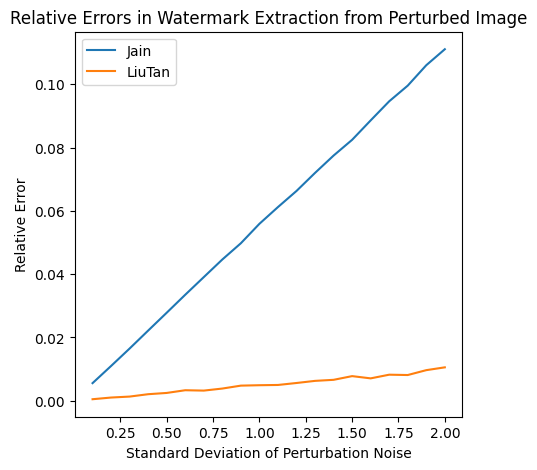
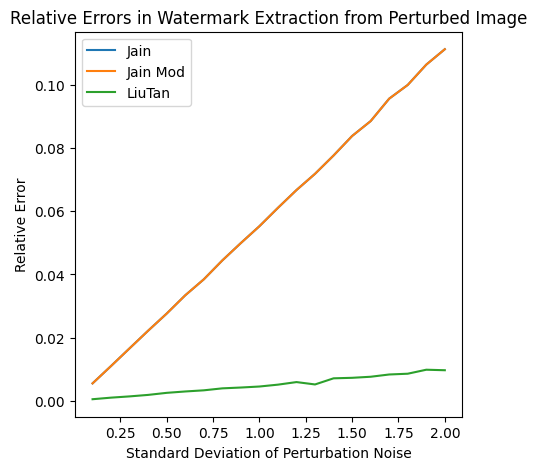
Add Jain mod to some experiments

diff --git a/david/image_watermark_experiments.py b/david/image_watermark_experiments.py
@@ -1,5 +1,7 @@
 import numpy as np
 import numpy.linalg as la
+import scipy as sp
+import scipy.sparse
 import matplotlib.pyplot as plt
 
 import svd_tools as svdt
@@ -175,6 +177,27 @@ def test_watermark_jain(scale=1):
     
     plt.show()
 
+def test_watermark_jain_perturb(scale=0.01):
+    img = np.asarray(Image.open('res/images/raccoon.jpg'))
+    watermark = np.asarray(Image.open('res/images/redpanda.jpg'))
+
+    img_watermarked, watermark_vh = embed_watermark_jain(img, watermark, scale)
+    perturbation = np.random.normal(scale=1, size=img_watermarked.shape)
+    watermark_extracted = extract_watermark_jain(img_watermarked + perturbation, img, watermark_vh, scale)
+
+    img_watermarked = np.clip(np.floor(img_watermarked + perturbation), 0, 255).astype(np.uint8)
+    watermark_extracted = np.clip(watermark_extracted, 0, 255).astype(np.uint8)
+
+    fig, axs = plt.subplots(2, 2)
+
+    axs[0, 0].imshow(img); axs[0, 0].axis('off'); axs[0,0].set_title('Original')
+    axs[0, 1].imshow(watermark); axs[0, 1].axis('off'); axs[0,1].set_title('Watermark')
+    axs[1, 0].imshow(img_watermarked.astype(np.uint8)); axs[1, 0].axis('off'); axs[1,0].set_title('Watermarked Image')
+    axs[1, 1].imshow(watermark_extracted.astype(np.uint8)); axs[1, 1].axis('off'); axs[1,1].set_title('Extracted Watermark')
+    
+    plt.show()
+
+
 def test_wrong_watermark_jain(scale=0.01):
     raccoon = np.asarray(Image.open('res/images/raccoon.jpg'))
     redpanda = np.asarray(Image.open('res/images/redpanda.jpg'))
@@ -200,6 +223,33 @@ def test_wrong_watermark_jain(scale=0.01):
     fig.tight_layout()
     
     plt.show()
+
+def test_wrong_watermark_jain_mod(scale=0.01):
+    raccoon = np.asarray(Image.open('res/images/raccoon.jpg'))
+    redpanda = np.asarray(Image.open('res/images/redpanda.jpg'))
+    fox = np.asarray(Image.open('res/images/fox.jpg'))
+
+    raccoon_wm_redpanda, redpanda_vh = embed_watermark_jain_mod(raccoon, redpanda, scale)
+    raccoon_wm_fox, fox_vh = embed_watermark_jain_mod(raccoon, fox, scale)
+    fox_extracted_wrong = extract_watermark_jain_mod(raccoon_wm_redpanda, raccoon, fox_vh, scale)
+
+    raccoon_wm_redpanda = np.clip(np.floor(raccoon_wm_redpanda), 0, 255).astype(np.uint8)
+    fox_extracted_wrong = np.clip(fox_extracted_wrong, 0, 255).astype(np.uint8)
+
+    fig, axs = plt.subplots(2, 3)
+
+    axs[0, 0].imshow(raccoon); axs[0, 0].axis('off'); axs[0,0].set_title('Original')
+    axs[0, 1].imshow(redpanda); axs[0, 1].axis('off'); axs[0,1].set_title('Watermark')
+    axs[0, 2].imshow(fox); axs[0, 2].axis('off'); axs[0,2].set_title('Wrong Watermark')
+    axs[1, 0].imshow(raccoon_wm_redpanda); axs[1, 0].axis('off'); axs[1,0].set_title('Image Watermarked with Red Panda')
+    axs[1,1].axis('off')
+    axs[1, 2].imshow(fox_extracted_wrong); axs[1, 2].axis('off'); axs[1,2].set_title('Fox Watermark Extracted')
+
+    fig.set_size_inches(10, 15)
+    fig.tight_layout()
+    
+    plt.show()
+
 
 def test_wrong_watermark_liutan(scale=0.01):
     raccoon = np.asarray(Image.open('res/images/raccoon.jpg'))
@@ -281,8 +331,6 @@ def test_watermark_jain(scale=1):
     watermark_extracted = extract_watermark_jain(mat_watermarked, mat, watermark_vh,
             scale=scale)
     watermark_extracted = watermark_extracted[:watermark_size[0], :watermark_size[1]]
-    print(la.norm(mat_watermarked - mat))
-    print(la.norm(watermark - watermark_extracted))
 
 def test_watermark_jain_round(scale=1):
     watermark_size = (7,7)
@@ -313,6 +361,7 @@ def plot_watermark_perturb_errors_sparse(scale=1, min_mult=1, max_mult=20, num_p
         size=(128,128)):
     mults = np.linspace(min_mult, max_mult, num_points)
     relative_errors_jain = np.empty_like(mults)
+    relative_errors_jain_mod = np.empty_like(mults)
     relative_errors_liutan = np.empty_like(mults)
 
     #mat = np.asarray(Image.open('res/images/raccoon.jpg').convert('L')).astype(np.float64)
@@ -322,6 +371,7 @@ def plot_watermark_perturb_errors_sparse(scale=1, min_mult=1, max_mult=20, num_p
 
     # Embed watermark
     mat_watermarked_jain, vh_jain = embed_watermark_jain(mat, watermark, scale)
+    mat_watermarked_jain_mod, vh_jain_mod = embed_watermark_jain_mod(mat, watermark, scale)
     mat_watermarked_liutan, u_liutan, s_liutan, vh_liutan = embed_watermark(mat, watermark, scale)
 
     # Perturb watermarked matrix
@@ -334,12 +384,18 @@ def plot_watermark_perturb_errors_sparse(scale=1, min_mult=1, max_mult=20, num_p
                 mat, vh_jain, scale)
         relative_errors_jain[i] = la.norm(watermark - watermark_extracted_jain) / la.norm(watermark)
 
+        watermark_extracted_jain_mod = extract_watermark_jain_mod(mat_watermarked_jain_mod + perturbation, 
+                mat, vh_jain_mod, scale)
+        relative_errors_jain_mod[i] = la.norm(watermark - watermark_extracted_jain_mod) / la.norm(watermark)
+
         watermark_extracted_liutan = extract_watermark(mat_watermarked_liutan + perturbation, 
                 u_liutan, s_liutan, vh_liutan, scale)
         relative_errors_liutan[i] = la.norm(watermark - watermark_extracted_liutan) / la.norm(watermark)
 
+
     fig, ax = plt.subplots()
-    ax.plot(mults, relative_errors_jain, label='Jain')
+    #ax.plot(mults, relative_errors_jain, label='Jain')
+    ax.plot(mults, relative_errors_jain_mod, label='Jain Mod')
     ax.plot(mults, relative_errors_liutan, label='LiuTan')
     ax.legend()
     ax.set_title('Relative Errors in Watermark Extraction from Perturbed Image')
@@ -355,6 +411,7 @@ def plot_watermark_perturb_errors_random(scale=1, min_stddev=.1, max_stddev=2, n
         size=(128,128)):
     std_devs = np.linspace(min_stddev, max_stddev, num_points)
     relative_errors_jain = np.empty_like(std_devs)
+    relative_errors_jain_mod = np.empty_like(std_devs)
     relative_errors_liutan = np.empty_like(std_devs)
 
     #mat = np.asarray(Image.open('res/images/raccoon.jpg').convert('L')).astype(np.float64)
@@ -364,6 +421,7 @@ def plot_watermark_perturb_errors_random(scale=1, min_stddev=.1, max_stddev=2, n
 
     # Embed watermark
     mat_watermarked_jain, vh_jain = embed_watermark_jain(mat, watermark, scale)
+    mat_watermarked_jain_mod, vh_jain_mod = embed_watermark_jain_mod(mat, watermark, scale)
     mat_watermarked_liutan, u_liutan, s_liutan, vh_liutan = embed_watermark(mat, watermark, scale)
 
     # Perturb watermarked matrix
@@ -374,12 +432,17 @@ def plot_watermark_perturb_errors_random(scale=1, min_stddev=.1, max_stddev=2, n
                 mat, vh_jain, scale)
         relative_errors_jain[i] = la.norm(watermark - watermark_extracted_jain) / la.norm(watermark)
 
+        watermark_extracted_jain_mod = extract_watermark_jain_mod(mat_watermarked_jain_mod + perturbation, 
+                mat, vh_jain_mod, scale)
+        relative_errors_jain_mod[i] = la.norm(watermark - watermark_extracted_jain_mod) / la.norm(watermark)
+
         watermark_extracted_liutan = extract_watermark(mat_watermarked_liutan + perturbation, 
                 u_liutan, s_liutan, vh_liutan, scale)
         relative_errors_liutan[i] = la.norm(watermark - watermark_extracted_liutan) / la.norm(watermark)
 
     fig, ax = plt.subplots()
     ax.plot(std_devs, relative_errors_jain, label='Jain')
+    ax.plot(std_devs, relative_errors_jain_mod, label='Jain Mod')
     ax.plot(std_devs, relative_errors_liutan, label='LiuTan')
     ax.legend()
     ax.set_title('Relative Errors in Watermark Extraction from Perturbed Image')
